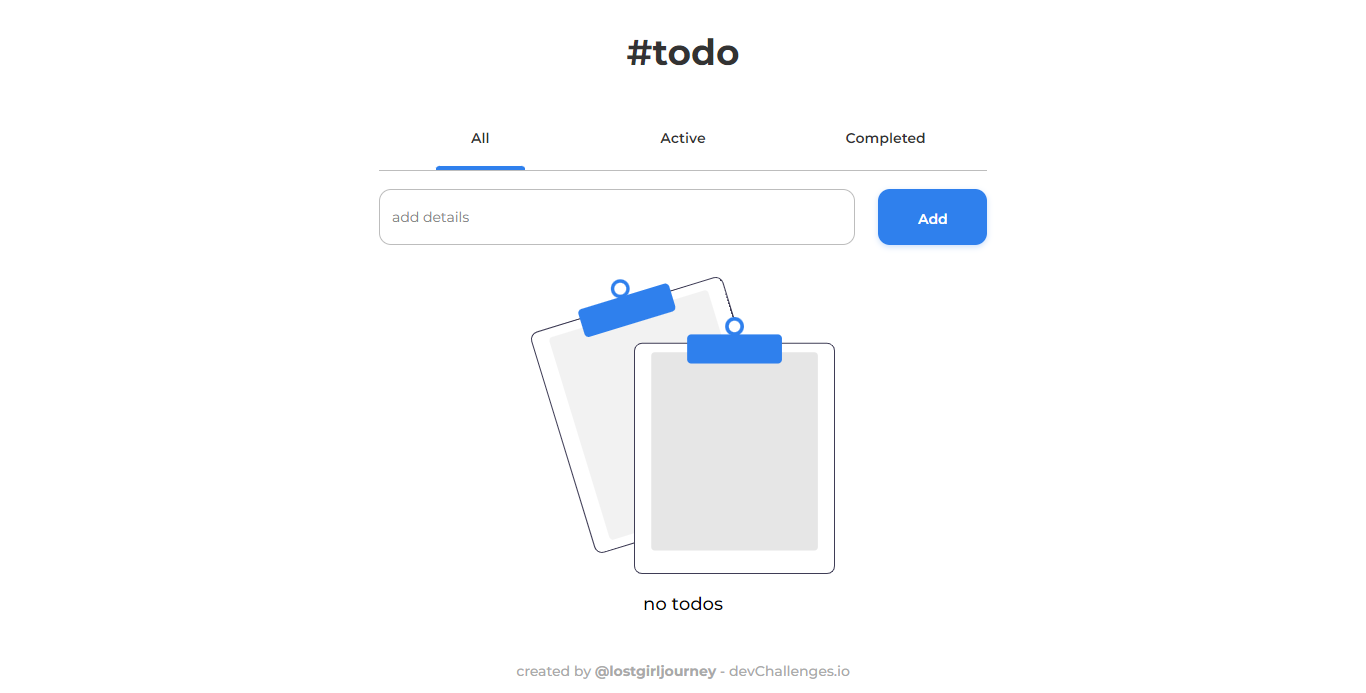
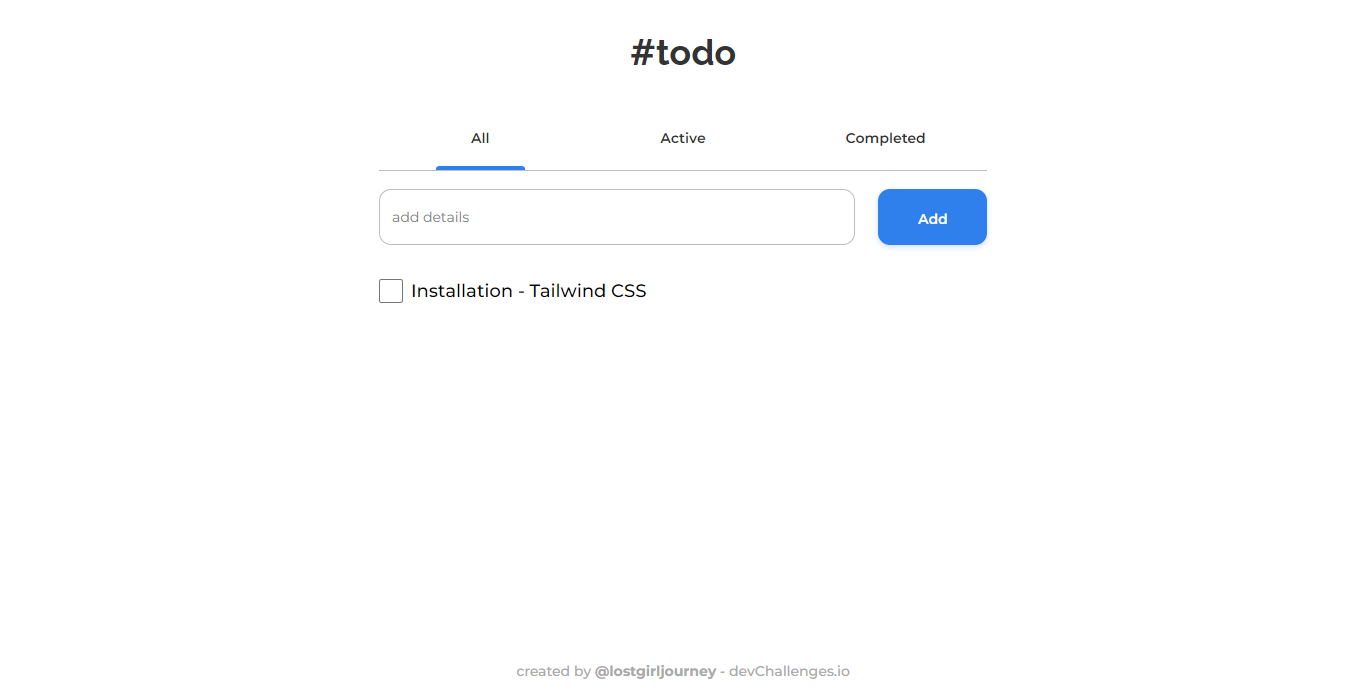
few more fixes done 🌻

Changed region(s): [[0.2767, 0.3939, 0.6149, 0.8182], [0.4612, 0.0606, 0.5534, 0.0909], [0.4612, 0.8485, 0.5227, 0.8788]]

diff --git a/src/components/common/Heading.tsx b/src/components/common/Heading.tsx
@@ -1,6 +1,6 @@
 export const Heading = () => {
 	return (
-		<p className="font-montserrat font-bold text-4xl text-[#333] flex justify-center mb-14">
+		<p className="font-raleway font-bold text-4xl text-[#333] flex justify-center mb-14">
 			#todo
 		</p>
 	);

diff --git a/public/css/index.css b/public/css/index.css
@@ -905,6 +905,10 @@ video {
   font-family: Montserrat, sans-serif;
 }
 
+.font-raleway {
+  font-family: Raleway, sans-serif;
+}
+
 .text-4xl {
   font-size: 2.25rem;
   line-height: 2.5rem;
